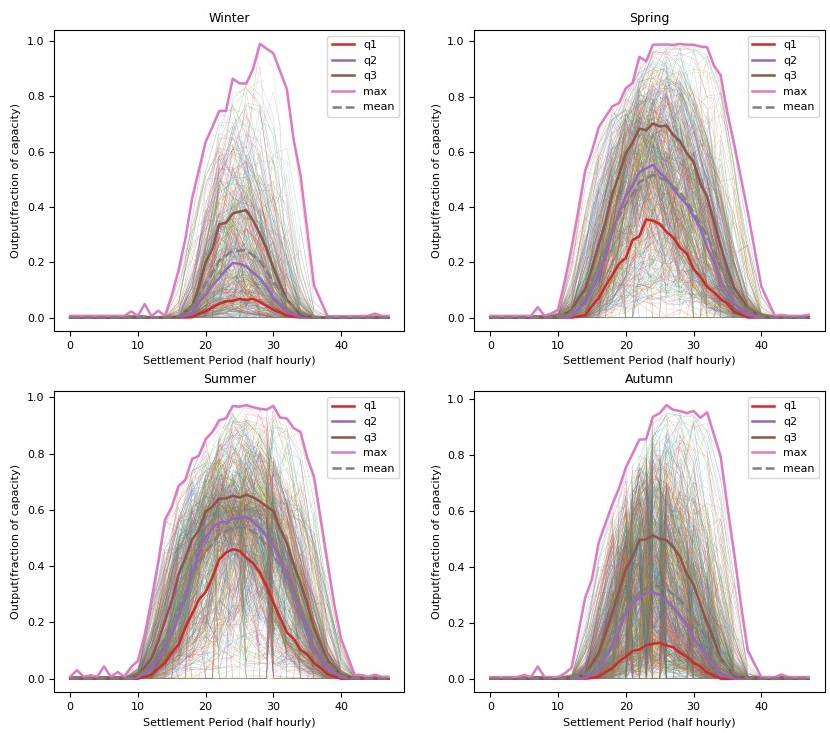
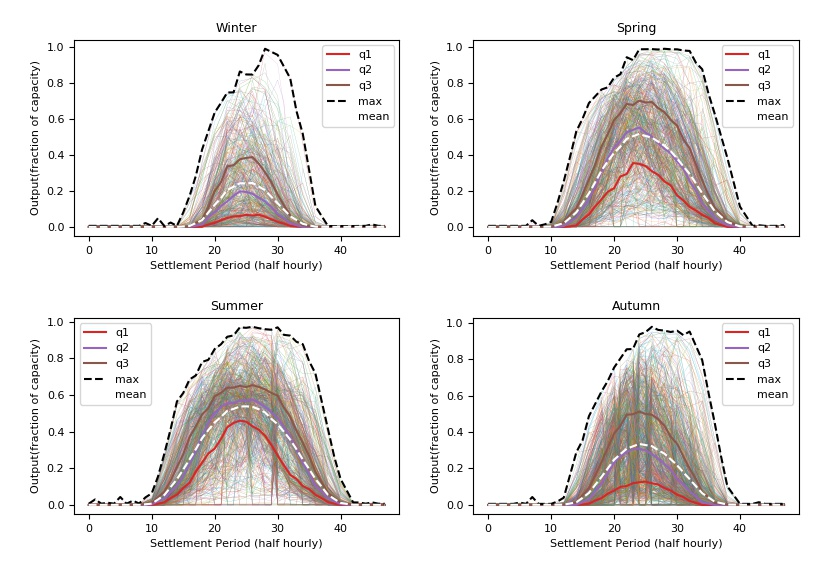
Mixture Script Added

Changed region(s): [[0.5196, 0.0, 1.0, 1.0], [0.0, 0.0, 0.489, 1.0]]

diff --git a/Data/PV_Load.py b/Data/PV_Load.py
@@ -179,12 +179,12 @@ def PV_Visualisation():
         qrts[item]["max"] = np.delete(qrts[item]["max"], 0)
         qrts[item]["mean"] = np.delete(qrts[item]["mean"], 0)
 
-    style = ["-", "-", "-", "-", "--"]
+    style = ["-", "-", "-", "--", "--"]
     colors = [
         "#d62728",
         "#9467bd",
         "#8c564b",
-        "#e377c2",
+        "black",
         "white",
         "#bcbd22",
         "#17becf",
@@ -198,7 +198,7 @@ def PV_Visualisation():
             plt.plot(
                 qrts[item][z],
                 color=colors[n],
-                linewidth=1.8,
+                linewidth=1.5,
                 label=z,
                 linestyle=style[n],
             )

diff --git a/Data/PV_Mixtures.py b/Data/PV_Mixtures.py
@@ -116,7 +116,11 @@ def mix_Visualisation():
             linestyle="--",
         )
         plt.plot(
-            qrts[item]["max"], color="green", linewidth=0.5, label="max", linestyle="--"
+            qrts[item]["max"], 
+            color="green", 
+            linewidth=0.5, 
+            label="max", 
+            linestyle="--"
         )
         n = n + 1
         plt.legend(fontsize=8)
